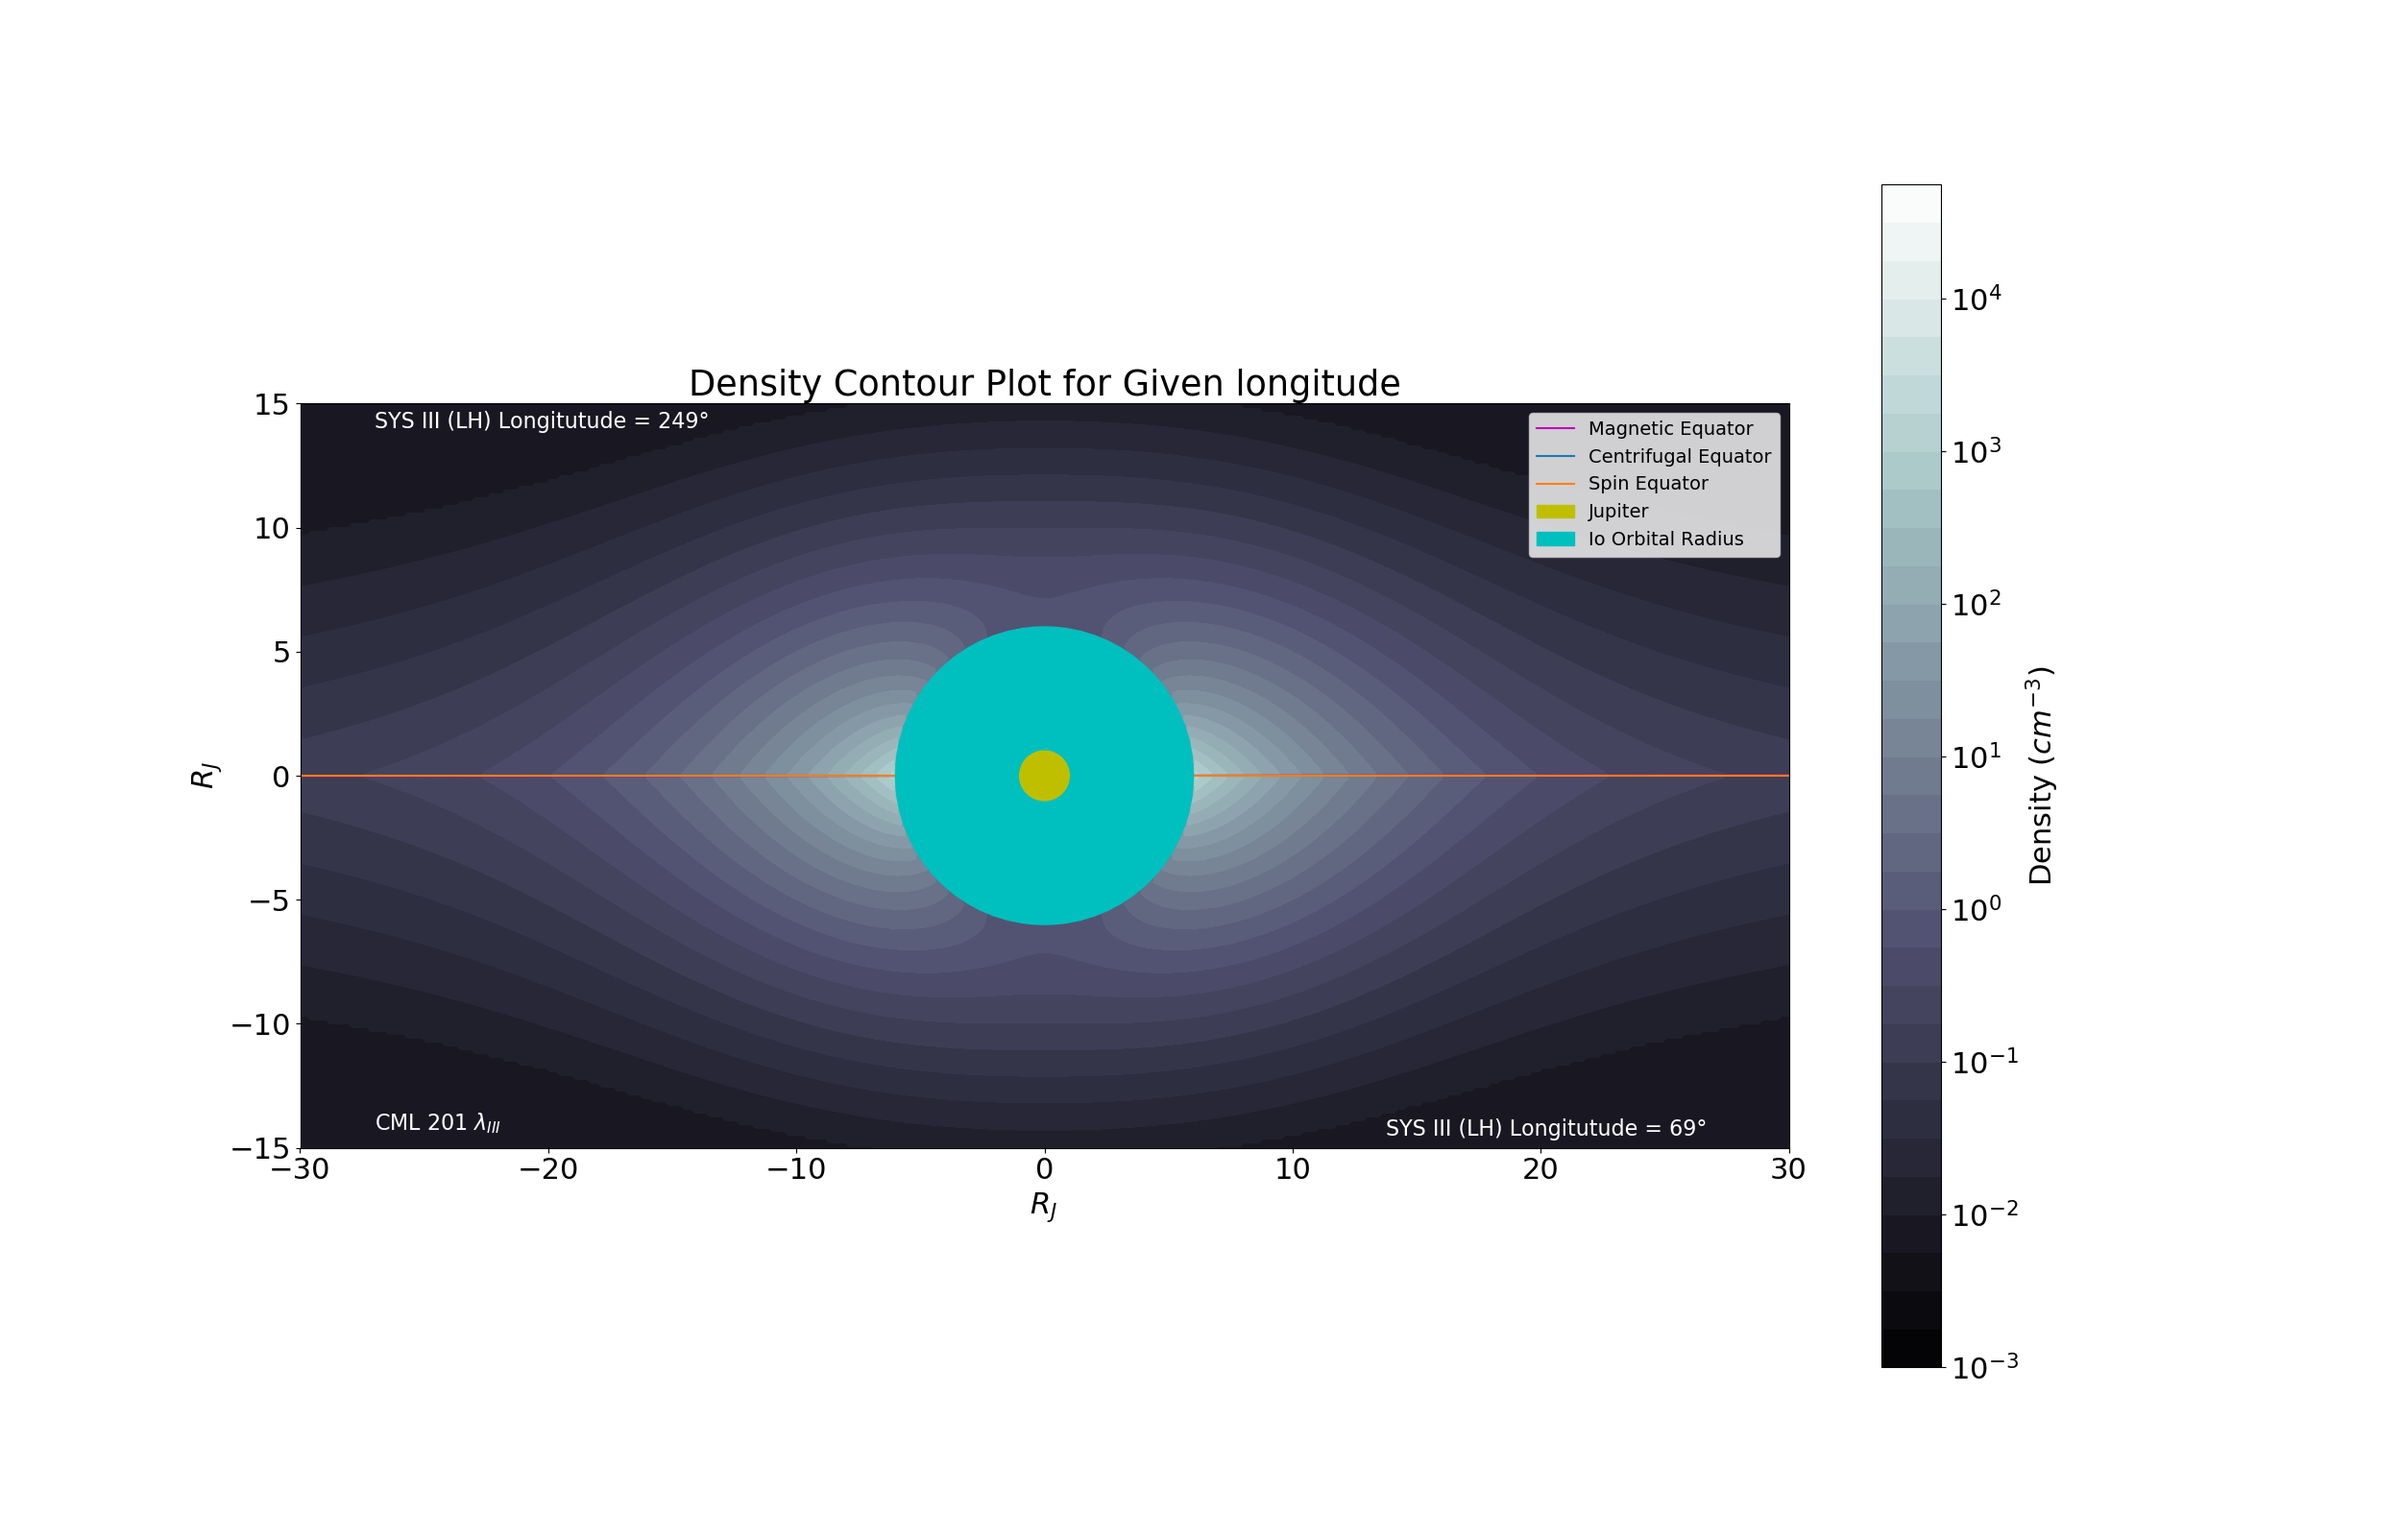
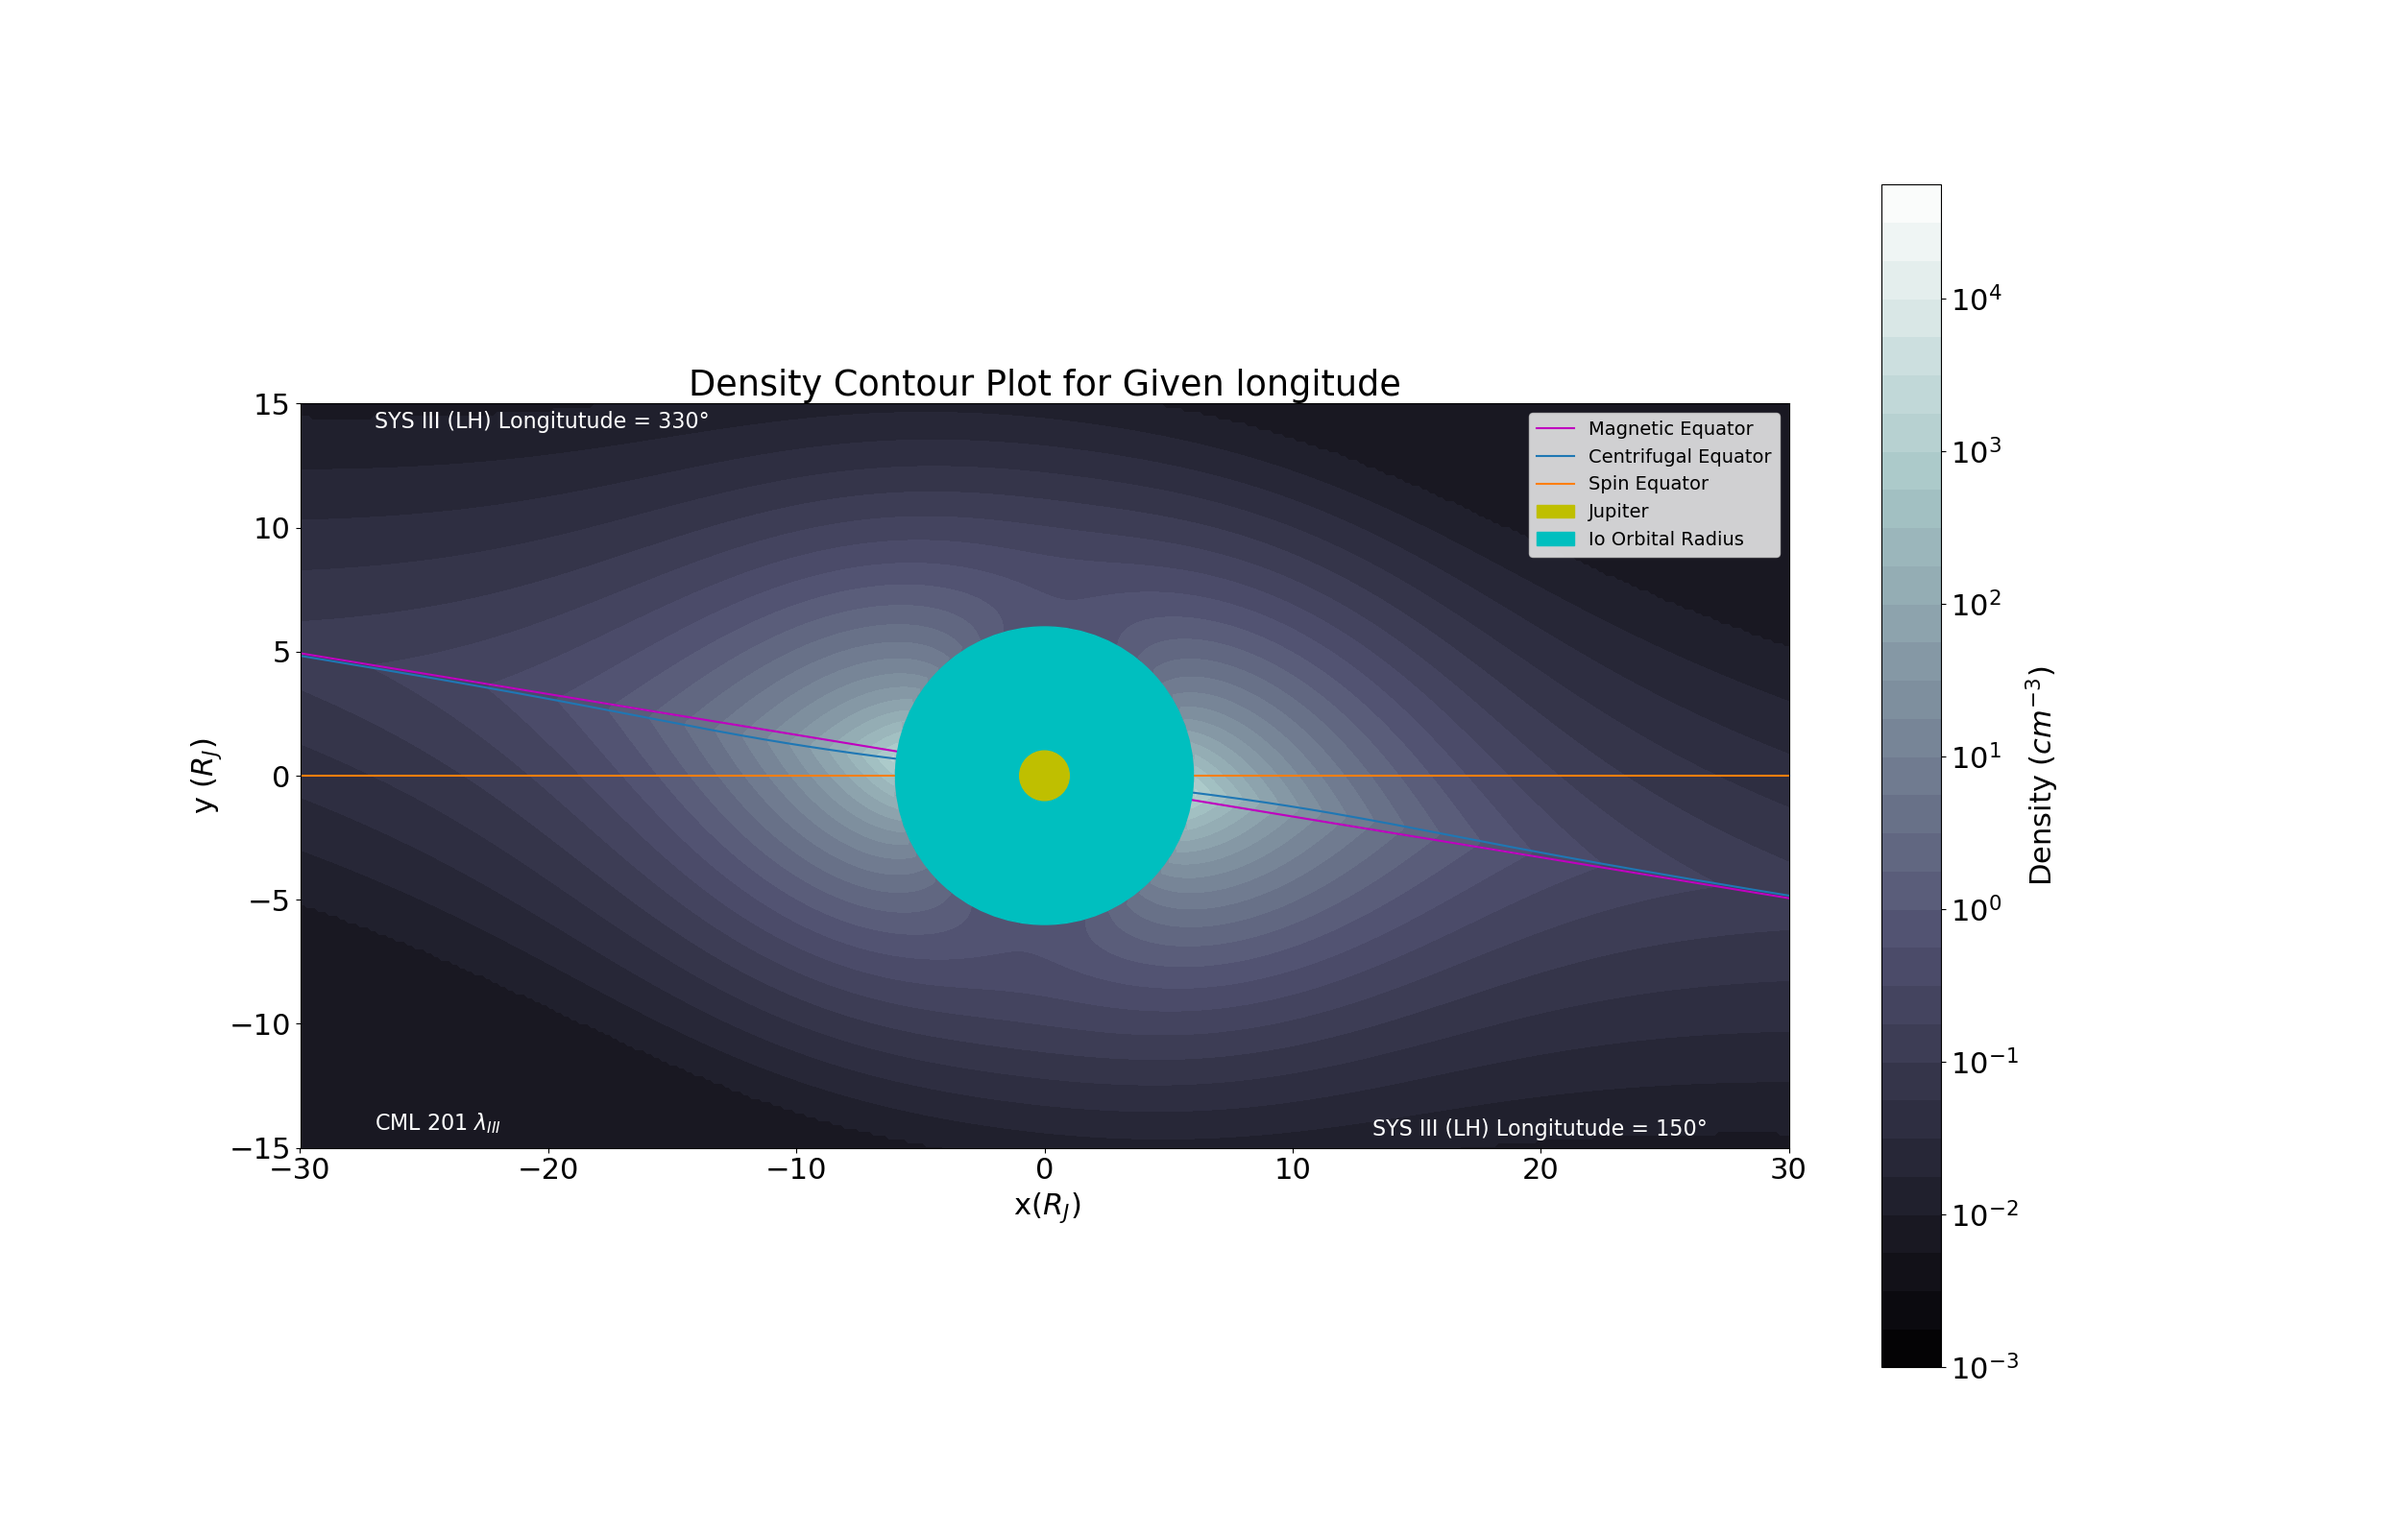
update

diff --git a/alfven.py b/alfven.py
@@ -638,21 +638,23 @@ class AlfvenVel:
         spacing = 2*np.pi/num
         for n in range(num):
             startingPoints.append([30, np.pi/2, n*spacing])
-        fig = plt.figure()
-        ax = fig.gca(projection='3d') # initialise figure
-        colours = ['b','g','r','c','m','k',] # just setting this up for use later
-        legend_elements = [] #MATPLOTLIB IS A PAIN
-        #make the sphere 
-        x,y, z = self.plotter.make_sphere()
-        ax.plot_surface(x, y, z, color = 'yellow', zorder=100, label = 'Jupiter')
-        ax.set_xlim3d(-40, 40)
-        ax.set_ylim3d(-40, 40)
-        ax.set_zlim3d(-40, 40)
-        ax.set_xlabel('$X, R_j$', fontsize=10)
-        ax.set_ylabel('$Y, R_J$', fontsize=10)
+        if plot == 'on':
+            fig = plt.figure()
+            ax = fig.gca(projection='3d') # initialise figure
+            colours = ['b','g','r','c','m','k',] # just setting this up for use later
+            legend_elements = [] #MATPLOTLIB IS A PAIN
+            #make the sphere 
+            x,y, z = self.plotter.make_sphere()
+            ax.plot_surface(x, y, z, color = 'yellow', zorder=100, label = 'Jupiter')
+            ax.set_xlim3d(-40, 40)
+            ax.set_ylim3d(-40, 40)
+            ax.set_zlim3d(-40, 40)
+            ax.set_xlabel('$X, R_j$', fontsize=10)
+            ax.set_ylabel('$Y, R_J$', fontsize=10)
         color_index = 0
         angle_time_dictionary = {}
         for point in startingPoints:
+            print('New Startpoint!')
             point[2] = 2*np.pi - point[2]
             phi_lh = point[2]
             phi_lh_deg = phi_lh * 180/np.pi
@@ -665,19 +667,33 @@ class AlfvenVel:
                 label = '$\u03BB_(III)$ = {}{}, time = {:.0f}mins'.format(phi_lh_deg,u"\N{DEGREE SIGN}", time/60)
                 ax.plot(plot_points_rj[0], plot_points_rj[1], plot_points_rj[2], label = label ,color = colours[color_index])             
                 legend_elements.append(Line2D([0], [0], color=colours[color_index], lw=2, label=label))
-            color_index +=1
-            if color_index > len(colours)-1:
-                color_index = 0
+                color_index +=1
+                if color_index > len(colours)-1:
+                    color_index = 0
         
-        print(angle_time_dictionary)
+        #print(angle_time_dictionary)
         if plot == 'on':
             
             ax.legend(handles=legend_elements, loc = 'upper left')
             plt.show()
         return angle_time_dictionary
 
-    #def plot_angle_vs_time()
-            
+    def plot_angle_vs_time(self, num = 10, direction = "backward"):
+        ''' generate a plot of how the travel time depends with the angle of the starting point. ''' 
+        angles_times = self.multiple_travel_times(num=num, plot='off', direction=direction)
+        #print(angles_times)
+        angles = list(angles_times.keys())
+        times = list(angles_times.values())
+        angles_degree = [x*180/np.pi for x in angles]
+        times_mins = [x/60 for x in times]
+        #print(angles, times)
+        fig, ax = plt.subplots()
+        ax.plot(angles_degree, times_mins)
+        ax.set(xlabel = 'phi $\u03BB_{III}$ (Degrees)', ylabel = 'Time (Minutes)', title ='Effect of Starting longitude In Equatorial Plane on Travel Time')
+        #ax.tick_params(labelright = True)
+        ax.grid()
+        plt.show()
+
     def plot_B_debug_time(self, phi_lh = 69):
         grids, gridz = self.help.makegrid_2d_negatives(200 ,gridsize= self.stop) #CHANGE THIS BACK TO 100 WHEN ITS WORKING
         phi_rh = 360-phi_lh
@@ -748,9 +764,10 @@ test = AlfvenVel(numpoints=200)
 #test.topdown_seperate_equators(density = 'on')
 
 #test.travel_time([30, np.pi/2, 69 * np.pi/180], direction='forward', dr_plot='off', path_plot = 'on', va_plot = 'off')
-test.travel_time([30, np.pi/2, 69 * np.pi/180], direction='forwards', dr_plot='off', path_plot = 'on', va_plot = 'on', b_plot='off', n_plot= 'on', debug_plot= 'off')
+#test.travel_time([30, np.pi/2, 200 * np.pi/180], direction='backward', dr_plot='off', path_plot = 'on', va_plot = 'on', b_plot='on', n_plot= 'on', debug_plot= 'on')
 #test.sideview_seperate_equators(69)
 #test.plot_rel_effect()
 #test.plot_correction()
 #test.multiple_travel_times(direction='backward')
 #test.plot_B_debug_time()
+test.plot_angle_vs_time(num=100)

diff --git a/density_height.py b/density_height.py
@@ -182,8 +182,8 @@ class DensityHeight:
                 phi = phi_rh 
                 phi_lh_for_calc = phi_lh_rad
 
-            r_mag, theta_mag, phi_mag = self.help.simple_mag_equator(point, np.pi/2, phi_lh_for_calc)
-            r_cent, theta_cent, phi_cent = self.help.change_equators(point, np.pi/2, phi)
+            r_mag, theta_mag, phi_mag = self.help.simple_mag_equator(abs(point), np.pi/2, phi_lh_for_calc)
+            r_cent, theta_cent, phi_cent = self.help.change_equators(abs(point), np.pi/2, phi)
             
             z_cent = abs(point) * np.cos(theta_cent)
             z_mag = abs(point) * np.cos(theta_mag)
@@ -246,7 +246,7 @@ class DensityHeight:
 
         ax.set_xlim(-30,30)
         ax.set_ylim(-15,15)
-        ax.set(xlabel = '$R_J$ \n', ylabel = '$R_J$', title = 'Density Contour Plot for Given longitude') #, title = 'CML 202 $\u03BB_{III}$')
+        ax.set(xlabel = ' x($R_J$) \n', ylabel = 'y ($R_J$)', title = 'Density Contour Plot for Given longitude') #, title = 'CML 202 $\u03BB_{III}$')
         if lines == 'on':
             ax.plot(mag_plot_points_t[0], mag_plot_points_t[1], label = 'Magnetic Equator', color = 'm')
             ax.plot(cent_plot_points_t[0], cent_plot_points_t[1], label = 'Centrifugal Equator')
@@ -283,11 +283,9 @@ class DensityHeight:
     
 
 
-'''
 
 test = DensityHeight(numpoints= 100, start= 5, stop = 30)
 #test.plotting(scale_height='on', density = 'on')    
 #test.equators_cent_calculated()
 #test.density_sep_equators(30, np.pi/2, 360*np.pi/180)
-test.meridian_slice(69, lines='on')
-'''
+test.meridian_slice(150, lines='on')

diff --git a/field_and_current_sheet.py b/field_and_current_sheet.py
@@ -128,7 +128,10 @@ class InternalAndCS:
             coordinates = np.add(coordinates, change) #add the change to the current co ordinate
             pr, ptheta, pphi = self.help.cart_to_sph(coordinates[0], coordinates[1], coordinates[2]) #change the coordinatres back in spherical
             coordinates = [pr,ptheta,pphi] 
-
+            #print('r, theta, phi = ',coordinates[0]/Rj, coordinates[1] * 180/np.pi, coordinates[2])
+            f = open('points.txt', 'a')
+            f.write('r, colat, phi lh = {}, {}, {} \n'.format(coordinates[0]/Rj, coordinates[1] * 180/np.pi, coordinates[2]))
+            f.close()
             
             if printing == 'on':
                 if (i % 1000) == 0 or i == 1:
@@ -320,10 +323,9 @@ class InternalAndCS:
         return None
 
 
-'''
+
 test = InternalAndCS([30*Rj, np.pi/2, 69* np.pi/180], model = 'VIP4')
 #test.find_mag_equator(point=[30*Rj, np.pi/2, 69* np.pi/180])
-#test.plotTrace()
+test.plotTrace()
 #test.plotMultipleLines()
 #test.traceFieldEquator()
-'''
